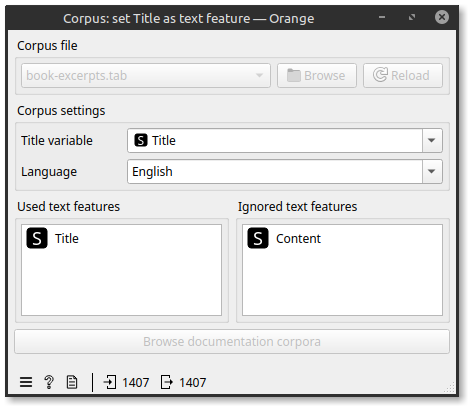
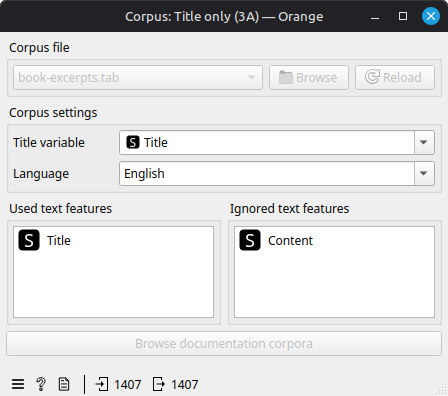
Rewrite chapter 3 on working with text data; add cleaning-headlines workflow and screenshots

Changed region(s): [[0.0, 0.0, 1.0, 1.0]]

diff --git a/utils/make_ows.py b/utils/make_ows.py
@@ -36,6 +36,10 @@ WIDGETS = {
     "Text Chunker": ("orangecontrib.nlp.widgets.owtext_chunker.OWTextChunker", "orange3-nlp"),
     "Reference Library": ("orangecontrib.nlp.widgets.owreference_library.OWReferenceLibrary", "orange3-nlp"),
     "Ollama RAG": ("orangecontrib.nlp.widgets.owollama_rag.OWOllamaRAG", "orange3-nlp"),
+    "Preprocess Text": ("orangecontrib.text.widgets.owpreprocess.OWPreprocess", "Orange3-Text"),
+    "Word Cloud": ("orangecontrib.text.widgets.owwordcloud.OWWordCloud", "Orange3-Text"),
+    "Select Rows": ("Orange.widgets.data.owselectrows.OWSelectRows", "Orange3"),
+    "Feature Statistics": ("Orange.widgets.data.owfeaturestatistics.OWFeatureStatistics", "Orange3"),
     "Distance Matrix": ("Orange.widgets.unsupervised.owdistancematrix.OWDistanceMatrix", "Orange3"),
 }
 # (source name, source id) -> (sink name, sink id) keyed by (source widget, sink widget)
@@ -70,6 +74,16 @@ LINKS = {
     ("Text Embedder", "Distances"): (("Embedded Corpus", "data"), ("Data", "data")),
     ("Distances", "Hierarchical Clustering"): (("Distances", "distances"), ("Distances", "distances")),
     ("Distances", "Distance Matrix"): (("Distances", "distances"), ("Distances", "distances")),
+    ("Corpus", "Corpus Viewer"): (("Corpus", "corpus"), ("Corpus", "corpus")),
+    ("Corpus", "Word Cloud"): (("Corpus", "corpus"), ("Corpus", "corpus")),
+    ("Corpus", "Data Table"): (("Corpus", "corpus"), ("Data", "data")),
+    ("Corpus", "Preprocess Text"): (("Corpus", "corpus"), ("Corpus", "corpus")),
+    ("Corpus", "Feature Statistics"): (("Corpus", "corpus"), ("Data", "data")),
+    ("Preprocess Text", "Word Cloud"): (("Corpus", "corpus"), ("Corpus", "corpus")),
+    ("Preprocess Text", "Corpus Viewer"): (("Corpus", "corpus"), ("Corpus", "corpus")),
+    ("Preprocess Text", "Select Rows"): (("Corpus", "corpus"), ("Data", "data")),
+    ("Select Rows", "Word Cloud"): (("Matching Data", "matching_data"), ("Corpus", "corpus")),
+    ("Word Cloud", "Data Table"): (("Word Counts", "word_counts"), ("Data", "data")),
 }
 COSINE, ROWS = 4, 0  # Orange.widgets.unsupervised.owdistances
 
@@ -274,6 +288,32 @@ def rag():
     return build(nodes, links, [(note, "(100.0, 330.0, 380.0, 130.0)")])
 
 
+def cleaning_headlines():
+    """Chapter 3: 3A load and inspect BBC3, 3B preprocess one stage at a time, 3C compare categories."""
+    nodes = [
+        ("ds", "Datasets", "Datasets: BBC3", (80, 200), {"selected_id": "BBC3.tab"}),
+        ("c", "Corpus", "Corpus: Title only (3A)", (250, 200), {"controlAreaVisible": True}),
+        ("cv", "Corpus Viewer", "Corpus Viewer (3A)", (450, 80), {}),
+        ("fs", "Feature Statistics", "Feature Statistics (3A)", (450, 330), {}),
+        ("pp", "Preprocess Text", "Preprocess Text (3B)", (450, 200), {}),
+        ("cvt", "Corpus Viewer", "Corpus Viewer: tokens (3B)", (680, 80), {}),
+        ("wc", "Word Cloud", "Word Cloud (3B)", (680, 200), {}),
+        ("dt", "Data Table", "Data Table: word counts (3B)", (900, 200), {}),
+        ("sb", "Select Rows", "Select Rows: business (3C)", (680, 340), {}),
+        ("se", "Select Rows", "Select Rows: entertainment (3C)", (680, 440), {}),
+        ("ss", "Select Rows", "Select Rows: sport (3C)", (680, 540), {}),
+        ("wb", "Word Cloud", "Word Cloud: business (3C)", (900, 340), {}),
+        ("we", "Word Cloud", "Word Cloud: entertainment (3C)", (900, 440), {}),
+        ("wsp", "Word Cloud", "Word Cloud: sport (3C)", (900, 540), {}),
+    ]
+    links = [("ds", "c"), ("c", "cv"), ("c", "fs"), ("c", "pp"), ("pp", "cvt"), ("pp", "wc"), ("wc", "dt"),
+             ("pp", "sb"), ("pp", "se"), ("pp", "ss"), ("sb", "wb"), ("se", "we"), ("ss", "wsp")]
+    note = ("*Chapter 3. Corpus: move Content to Ignored so only Title is used. Preprocess Text starts with Lowercase "
+            "and Stopwords on; change one stage at a time. Select Rows: set category to business, entertainment, "
+            "sport. Datasets needs an internet connection.*")
+    return build(nodes, links, [(note, "(80.0, 620.0, 760.0, 80.0)")])
+
+
 def check(path):
     """Load the .ows with Orange's own reader; print node/link counts and errors."""
     import os
@@ -297,7 +337,8 @@ WORKFLOWS = {"word-embeddings": (word_embeddings, "word-embeddings.ows"),
              "document-embeddings": (document_embeddings, "document-embeddings.ows"),
              "question-answering": (question_answering, "question-answering.ows"),
              "llm-tasks": (llm_tasks, "llm-tasks.ows"),
-             "rag": (rag, "rag.ows")}
+             "rag": (rag, "rag.ows"),
+             "cleaning-headlines": (cleaning_headlines, "cleaning-headlines.ows")}
 
 if __name__ == "__main__":
     import sys

diff --git a/chapters/03/Text Data.md b/chapters/03/Text Data.md
@@ -4,142 +4,217 @@
 
 By the end of this chapter, you will be able to:
 
-- Load and inspect text data in Orange.
-- Apply common preprocessing steps such as tokenization, stopword removal, and lemmatization.
-- Understand the role of text normalization in NLP.
-- Build a reusable workflow to clean and prepare raw text data.
+- Load a text dataset into Orange and choose which column Orange treats as the text.
+- Inspect a corpus: its size, its labels, and the documents themselves.
+- Apply the standard preprocessing stages (lowercasing, tokenization, normalization, filtering) with the *Preprocess Text* widget, and describe what each one does to a real headline.
+- Explain the difference between stemming and lemmatization, and recognize when either one damages the text.
+- Judge whether a cleaning step helps, by looking at the tokens and the size of the vocabulary.
 
 ---
 
-## 3.1 Importing Text Data into Orange
+## 3.1 Loading Text into Orange
 
-Text data in Orange can be loaded using:
+Orange can load text in several ways:
 
-- The *File* widget
-- The *CSV File Import* widget
-- The *Corpus* widget (specific to Orange Text add-on)
+| Widget | Use it for |
+|--------|-----------|
+| **Corpus** | A table in which one or more columns hold text (the usual case; from the Text add-on) |
+| **Datasets** | Downloading a ready-made dataset from Orange's server, then passing it to *Corpus* |
+| **Import Documents** | A folder of text, PDF, or Word files, one document per file |
+| **File** / **CSV File Import** | Spreadsheets and CSV files; connect the result to *Corpus* |
 
-> 📝 **Note:** For text processing, ensure your dataset includes at least one column of free-form text.
+A corpus has two kinds of columns:
 
-### Example Dataset: BBC3 News Classification Dataset
+- **Text features**: the columns Orange reads as the document. These are what preprocessing and later models will use.
+- **Everything else**: labels (such as a category), titles, dates, authors. These stay with the document but are not read as text.
 
-Use Orange's *Dataset* widget and select BBC3. Connect that to *Corpus* and select only the Title field.
+If more than one column is marked as text, Orange joins them into one document. So the first thing to do with a new corpus is to check *which* columns are used.
 
-Use *Feature Statistics* to understand the distribution of the **category** field.  Use the `color:` selection at the bottom to show a legend of the 3 categories.
+### The dataset: BBC News
 
-### Quick Start
+The **BBC3** dataset has 1,407 news articles from the BBC (2004 and 2005), each with a **Title** (the headline), the article **Content**, and a **category**: *business* (510), *entertainment* (386), or *sport* (511). It is downloaded by the *Datasets* widget, so you need an internet connection the first time.
 
-- Use the *Dataset* widget and select BBC3.
-- Connect that to *Corpus* and select only the Title field.
-  * If you cannot find the *Corpus* widget, install the **Text** add-on.
-  * ![Selecting the Title field as the text feature](1-Corpus%20Title.png)
-- The *Corpus Viewer* widget
+> 📝 The articles are copyrighted by the BBC and the dataset is for non-commercial and research use. That is fine for this course. If you want to use the data in a product, check the licence first.
 
-
-Your current workflow should look something like this:
-
-![Loading workflow for BBC3 News Classification Dataset](1-Import%20Workflow.png)
+This chapter uses only the **headlines**. They are short, so you can read the tokens and see every effect of every step. Chapters 4 to 6 use the same headlines.
 
 ---
 
-## 3.2 The Text Preprocessing Pipeline
+## 3.2 From Text to Tokens
 
-Before analyzing text, it must be cleaned and standardized. This process is called **text preprocessing**.
+Before a computer can count words, the text must be cleaned and split into pieces. These are the standard stages, in the order the *Preprocess Text* widget applies them:
 
-Common steps include:
+| Stage | What it does | Options in *Preprocess Text* |
+|-------|--------------|------------------------------|
+| **Transformation** | Changes the text before it is split | Lowercase; Remove accents; Parse HTML; Remove URLs |
+| **Tokenization** | Splits the text into **tokens** (usually words) | Regexp (the default), Word & Punctuation, Whitespace, Sentence, Tweet |
+| **Normalization** | Reduces each token to a base form | Porter stemmer, Snowball stemmer, WordNet lemmatizer, UDPipe, Lemmagen |
+| **Filtering** | Removes tokens you do not want | Stopwords, Lexicon, Numbers, Regexp, Document frequency, Most frequent tokens, POS tags |
 
-| Step             | Description                                               |
-|------------------|-----------------------------------------------------------|
-| Lowercasing       | Converts all text to lowercase                           |
-| Tokenization      | Splits text into words or tokens                         |
-| Stopword Removal  | Removes common words (e.g., "the", "and", "is")          |
-| Lemmatization     | Reduces words to base form (e.g., "running" → "run")     |
-| Punctuation Removal | Deletes symbols and punctuation marks                 |
+Two more options exist (**N-grams** for pairs and triples of words, and **POS Tagger** for parts of speech). You will meet them later.
 
-> 💡 These steps reduce noise and improve the quality of features extracted later.
+### What each stage does to a real headline
+
+Take the BBC headline **`High fuel prices hit BA's profits`**.
+
+| After stage | Tokens |
+|-------------|--------|
+| Tokenize with the default pattern `\w+` | `High` `fuel` `prices` `hit` `BA` `s` `profits` |
+| + Lowercase | `high` `fuel` `prices` `hit` `ba` `s` `profits` |
+| + Stopwords (English) | `high` `fuel` `prices` `hit` `ba` `profits` |
+| + Normalization (Porter or WordNet) | `high` `fuel` `price` `hit` `ba` `profit` |
+
+Notice three things:
+
+- The default tokenizer splits on anything that is not a letter or digit, so `BA's` becomes `BA` and `s`. The stray `s` is a **stopword**, so it disappears at the filtering stage.
+- The case must be fixed *before* filtering. The stopword list is lowercase, so `The` would not be removed (you saw this in Chapter 2).
+- `prices` became `price` and `profits` became `profit`. The two forms are now one feature, which is the goal of normalization.
+
+### Stemming and lemmatization
+
+Both reduce words to a base form, but in different ways.
+
+- A **stemmer** (Porter, Snowball) chops off endings by rules. It is fast and needs no dictionary, but the result is not always a word: `companies` and `company` both become `compani`, `business` becomes `busi`.
+- A **lemmatizer** (WordNet, Lemmagen, UDPipe) looks the word up and returns its dictionary form, the **lemma**: `faces` becomes `face`, `prices` becomes `price`. It is slower and needs a language resource, but keeps real words.
+
+Neither is perfect. On the BBC headlines the Porter stemmer turns the oil company `yukos` into `yuko`, and it maps `unit`, `united`, and `unites` all to `unit`. A model then cannot tell a business unit from Manchester United.
+
+### Less is sometimes more
+
+More cleaning is not always better. Every step discards information:
+
+- Removing stopwords can remove words that matter (`not`, `no`, `against`).
+- Removing short words also removes `us`, `uk`, `tv`, `oil`, and `top`, which are some of the most useful words in headlines.
+- Stemming merges words that do not belong together (`united` and `unit`).
+
+The way to decide is the same as for any other model choice: try it, look at the tokens, and measure on the task (Chapters 4 and 6).
 
 ---
 
-## 3.3 Using the *Preprocess Text* Widget
+## 3.3 The Widgets
 
-The *Preprocess Text* widget allows you to apply several preprocessing steps in one place.
+| Widget | What it does |
+|--------|--------------|
+| **Datasets** | Lists Orange's example datasets and loads the one you select. |
+| **Corpus** | Loads the table and lets you choose the text features ("Used text features"). |
+| **Feature Statistics** | Shows each column's type and distribution, which is a quick way to count the categories. |
+| **Corpus Viewer** | Shows the documents, and with **Show Tokens & Tags** ticked, their tokens. |
+| **Preprocess Text** | Applies the stages above. Add or remove stages on the left, and set each one's options. |
+| **Word Cloud** | Draws the most frequent tokens, and outputs a table of all words and their counts. |
+| **Data Table** | Shows a table. The number of rows at the bottom left is the number of words when the input is the Word Cloud's *Word Counts*. |
 
-### Key Features
+*Preprocess Text* starts with **Lowercase** and **Stopwords** turned on and the **Regexp** tokenizer. Normalization and the other filters are off until you add them. The **Output** box at the bottom left of the widget shows the number of **Tokens** (all words) and **Types** (different words, which is the vocabulary size).
 
-- Select columns to preprocess
-- Apply transformations such as:
-  - Lowercasing
-  - Filtering (e.g., by word length or frequency)
-  - Lemmatization (using spaCy)
-- Add POS filtering (optional)
-
-> 🧠 Try preprocessing the `Title` column using different combinations of these steps and observe the effect on token counts.
-
----
-
-## 3.4 Visualizing Cleaned Text
-
-After preprocessing, you can visualize the cleaned corpus using:
-
-- *Word Cloud* – Highlights frequent terms
-- *Corpus Viewer* – Shows individual processed texts
-- *Data Table* – For inspecting the cleaned token list
-
-> 📌 **Tip:** Save your preprocessed corpus with *Save Data* so it can be reused in later experiments.
+![The whole workflow for this chapter, labeled by exercise](3-workflow-overview.png)
 
 ---
 
-## Lab Exercise 3: Clean and Explore Headlines
+## Lab Exercise 3A: Load and Inspect
 
-**Goal**: Build a workflow to load, clean, and visualize a set of news headlines.
-
-**Widgets Needed**:
-- *Dataset*
-- *Corpus*
-- *Preprocess Text*
-- *Word Cloud*
-- *Corpus Viewer*
-- *Save Data*
+**Goal**: Load BBC3, use only the headlines, and look at the data.
 
 **Steps**:
 
-1. Use the *Dataset* widget and select BBC3.
-2. Connect that to *Corpus* and select only the Title field.
-3. Apply at least 3 preprocessing steps in *Preprocess Text*.
-4. Generate a Word Cloud and analyze which terms are most common by category.
-5. Use *Corpus Viewer* to compare original vs cleaned text.
-6. Use *Save Data* to save the cleaned data as `news-headlines.tab`
+1. Add a *Datasets* widget, select **BBC3**, and connect it to a *Corpus* widget.
+2. Open *Corpus*. Under **Used text features** there are two: `Title` and `Content`. Drag `Content` into **Ignored text features**, so that only `Title` is used.
+3. Add a *Corpus Viewer* and connect *Corpus* to it. Click a few documents.
+4. Add a *Feature Statistics* widget, connect *Corpus* to it, and look at the `category` row. Use **Color** at the bottom to show the legend for the three categories.
 
-> 📝 **Bonus Task**: Try filtering words by minimum length (e.g., > 4 characters) and observe the effect.
+![Datasets, Corpus, Corpus Viewer, and Feature Statistics for the BBC3 headlines](3A-workflow.png)
+
+![The Corpus widget with only Title as the text feature](1-Corpus%20Title.png)
+
+**Questions**:
+
+- How many documents are there? How many are in each category? Are the categories balanced?
+- Look at ten headlines. Can you tell the category from the headline alone? Which ones are hard?
+- If you left `Content` as a text feature too, what would change in the Corpus Viewer? Try it.
+
+---
+
+## Lab Exercise 3B: Preprocess the Headlines
+
+**Goal**: Build a preprocessing pipeline one stage at a time, and see how each stage changes the tokens and the size of the vocabulary.
+
+**Steps**:
+
+1. Connect *Corpus* to a *Preprocess Text* widget.
+2. Connect *Preprocess Text* to a *Corpus Viewer*, and tick **Show Tokens & Tags**.
+3. Connect *Preprocess Text* to a *Word Cloud*, and connect the Word Cloud's **Word Counts** output to a *Data Table*. The number of rows in the table is the number of different words (the **vocabulary size**). The **Types** count in the *Preprocess Text* Output box should show the same number.
+4. In *Preprocess Text*, build the pipeline stage by stage, and write down the vocabulary size each time:
+
+   | Stage added | Vocabulary size (yours) |
+   |-------------|-------------------------|
+   | Tokenization only (untick Lowercase and Stopwords) | |
+   | + Lowercase | |
+   | + Stopwords (English) | |
+   | + Normalization: Porter stemmer | |
+   | Normalization: WordNet lemmatizer instead of Porter | |
+
+5. Find the headline `High fuel prices hit BA's profits` in the Corpus Viewer. Compare its tokens at each stage with the table in section 3.2.
+6. With Porter selected, find the headline about **Yukos** and a headline with **united** in it. What does the stemmer do to them?
+
+![Preprocess Text with its starting settings (Lowercase, the `\w+` Regexp tokenizer, English stopwords): 6,414 tokens and 2,759 types](3B-preprocess.png)
+
+![The Word Counts table for the same settings: 2,759 rows, one per different word, with `us` the most frequent](3B-word-counts.png)
+
+**Questions**:
+
+- Which stage reduced the vocabulary the most? Which reduced it the least?
+- How do the Porter stemmer and the WordNet lemmatizer differ in vocabulary size? Find two words on which they disagree.
+- Find a word that the stemmer damaged. Would this hurt a classifier? Why or why not?
+- Why did lowercasing reduce the vocabulary even though it removed no words?
+
+---
+
+## Lab Exercise 3C: What Do the Categories Say?
+
+**Goal**: See whether the cleaned headlines carry a signal about the category, and test a filter that sounds sensible.
+
+**Steps**:
+
+1. Keep the pipeline Lowercase + Regexp tokenization + Stopwords (no normalization).
+2. Add a *Select Rows* widget after *Preprocess Text*, set it to **category is business**, and connect it to a new *Word Cloud*. Repeat for **entertainment** and **sport**.
+3. Compare the three clouds.
+4. **Bonus.** Add a **Regexp** filter in *Preprocess Text* with the pattern `^\w{1,4}$` to remove tokens of 4 or fewer characters. Compare the vocabulary size and the word clouds.
+
+![Word clouds of the business (510 headlines, 1,197 different words), entertainment (386, 983), and sport (511, 1,126) headlines](3C-clouds.png)
+
+**Questions**:
+
+- Which words are the most frequent in each category? Are they useful for telling the categories apart? Which ones appear in more than one category?
+- In the bonus, how much smaller is the vocabulary? Which useful words are removed by the length filter? (Hint: look for `us`, `uk`, `tv`, and `new`.)
+- Is there a filter you would remove from the pipeline? Which one, and why?
+
+> 📝 **Reflection:** You can now clean text in many ways. How would you decide which pipeline is best? Chapter 4 will give you a way to test it: train a classifier on each version and compare the accuracy.
 
 ---
 
 ## Comprehension Questions
 
-1. What is tokenization, and why is it a critical step in NLP?
-2. How does lemmatization differ from stemming?
-3. Why might you want to remove stopwords from a text corpus?
-4. What effect does lowercasing have on feature extraction?
-5. What does the *Corpus Viewer* widget allow you to examine?
+1. What is a token? What is the difference between a token and a word?
+2. Why must lowercasing come before stopword filtering?
+3. What is the difference between stemming and lemmatization? Give one advantage of each.
+4. Give an example of a cleaning step that removes useful information.
+5. What is a text feature in a corpus, and what happens if you mark the wrong column?
+6. Why does the vocabulary size matter? What happens to later steps when it is very large?
 
 ---
 
 ## Key Terms
 
+- Corpus, text feature
 - Preprocessing
-- Tokenization
-- Lemmatization
-- Stopwords
+- Token, tokenization
 - Normalization
-- Corpus Viewer
+- Stemming, lemmatization
+- Stopwords
+- Vocabulary
+- N-gram
 
 ---
 
 ## Notes
 
-- Preprocessing choices affect downstream performance in classification, clustering, and topic modeling.
-- You can chain multiple *Preprocess Text* widgets to experiment with different cleaning stages.
-- Save this workflow as `cleaning-headlines.ows` for use in Chapter 4.
-
----
-
+- Save your workflow as `cleaning-headlines.ows`. Chapter 4 builds on the same headlines, and its first steps are the ones in 3A and 3B.
+- The preprocessed tokens live in the corpus object that flows between widgets. A *Save Data* widget saves the table, not the tokens, so save the workflow instead.
